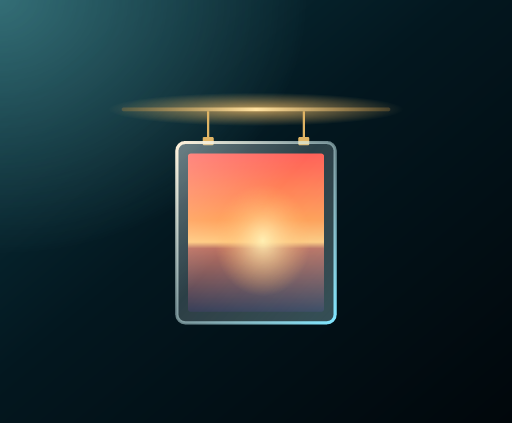
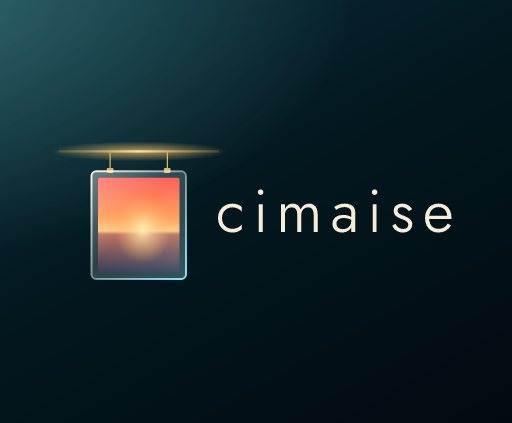
Icône de l'app : tuile verre-2 avec le mot « cimaise » en 512×423 (vue sur la Frame), variantes et essais consignés

Changed region(s): [[0.125, 0.2151, 0.9062, 0.7683], [0.7188, 0.4303, 0.75, 0.461]]

diff --git a/.board/bilan.md b/.board/bilan.md
@@ -4,15 +4,17 @@ Issue : partiel
 
 **Fait**
 - Format vérifié dans la doc Samsung : 117×117 = icône « de test » (Design Q&A, Q3) ; icône des apps publiées =
-  512×423, PNG 24 bits RVB (App Icons and Screenshots). Rien sur l'`<icon>` de `config.xml`.
-- `apps/tv/icon.png` refaite en 512×423 RVB (source `packages/launcher/brand/icon.svg`) : 37 092 o (+31 444 o), consigné dans
-  `docs/decisions.md` ; `config.xml` passé en version 0.0.2 ; `npm run check` vert.
-- Frame (TV2 non touchée) : installation par-dessus, redémarrage complet, installation en 0.0.2, puis — avec l'accord explicite
-  de Stéphane — désinstallation depuis la TV et installation propre. Tout est consigné dans `docs/tv-status.md`.
-- Comparaison avant/après et les deux icônes publiées sur la carte.
+  512×423, PNG 24 bits RVB (App Icons and Screenshots).
+- `apps/tv/icon.png` = tuile verre-2 **avec le mot « cimaise »**, recadrée en 512×423 RVB (source
+  `packages/launcher/brand/icon-tuile.svg`, à partir de `tile.svg`) : **29 175 o** (+23 527 o vs 117×117) ; `.wgt` signé
+  215 189 o. Variantes essayées et gardées en source : `icon.svg` (symbole seul, 512×423), `icon-carre.svg` (1:1 transparente).
+- Sur la Frame (TV2 non touchée) : installations par-dessus, redémarrage, version 0.0.2, puis désinstallation **avec l'accord
+  explicite de Stéphane** et installation propre ; puis variantes par-dessus. Tout est consigné dans `docs/tv-status.md` et
+  `docs/decisions.md`.
+- **Vu par Stéphane** : la tuile 512×423 avec le mot s'affiche sans déformation et « le texte rend bien » (la 16:9 était écrasée).
 
 **Pas fait / pourquoi**
-- Critère 2 non rempli : Stéphane voit toujours une tuile verticale (il pense voir l'icône carrée ; photo demandée pour
-  trancher). Hypothèse : tuile de format fixe pour les apps hors Store sur le Smart Hub 2019 ; non confirmée.
-- Variante 1:1 transparente prête (hors dépôt) mais pas encore essayée.
-- Désinstallation : jeton Plex et réglages perdus (accepté par Stéphane) ; reconnexion Plex par PIN à refaire.
+- La tuile cimaise reste **moins allongée** que celles de Netflix, Plex, etc. Le Smart Hub met l'icône d'une app hors Store
+  dans une tuile de format fixe ≈ 512×423 ; les tuiles plus larges des apps du Store viennent sans doute des visuels du Seller
+  Office. Hors d'atteinte avec `config.xml`, à ma connaissance. Stéphane accepte le résultat « pour cette fois ».
+- La désinstallation a effacé le jeton Plex et les réglages : reconnexion Plex par code PIN à refaire.

diff --git a/docs/decisions.md b/docs/decisions.md
@@ -1029,6 +1029,25 @@ documente l'affichage de l'`<icon>` d'une app hors Store dans la barre ; seules 
 et réinitialiser le Smart Hub (écartée : efface les connexions de toutes les apps). **On garde l'icône 512×423** (nette,
 conforme au format Samsung, coût +30,7 Ko) ; prochain essai proposé : variante 1:1 transparente.
 
+**Mise à jour, même soir : résolu avec la tuile « cimaise » en 512×423.** Stéphane attendait la tuile avec le mot (`tile.svg`),
+pas le symbole seul : avec le symbole seul (fond plein ou transparent), il ne distinguait pas l'ancienne icône de la nouvelle.
+Il a ensuite confirmé que la tuile était déjà plus large avec la 512×423. Essais suivants, tous installés **par-dessus** (pas de
+nouvelle désinstallation), icône rafraîchie à chaque fois :
+- variante **1:1 transparente** (`brand/icon-carre.svg`, 512×512 RVBA, 26 091 o) : installée, sans retour de Stéphane, abandonnée ;
+- **tuile 16:9 avec le mot** (640×360, 31 023 o) : affichée mais **écrasée** horizontalement. Le Smart Hub étire donc l'icône
+  dans une tuile de format fixe, plus étroite que du 16:9 ;
+- **tuile avec le mot recadrée en 512×423** (`brand/icon-tuile.svg`, recadrage de `tile.svg`) : non déformée, le texte rend
+  bien, mais la tuile reste **moins allongée** que celles de Netflix ou Plex. Acceptée « pour cette fois » (Stéphane, 08/11).
+  **Retenue.**
+
+**Conclusion.** Pour une app hors Store sur la Frame 2019, le Smart Hub affiche l'`<icon>` de `config.xml` dans une tuile de
+format fixe ≈ 512×423, en l'étirant au besoin : il faut fournir l'icône à ce format. Les apps du Store ont des tuiles plus
+allongées, tirées des visuels du Seller Office : **hors d'atteinte** avec l'`<icon>` de `config.xml` (aucun réglage trouvé). Le premier refus de rafraîchir (cache) a
+cessé après la désinstallation ; depuis, une installation par-dessus suffit.
+
+**Coût retenu.** `apps/tv/icon.png` (tuile 512×423, RVB) : **29 175 octets**, soit +23 527 o par rapport au 117×117. `.wgt`
+signé : 215 189 o (budget 1,5 Mo). Aucun effet sur le JS ni sur le démarrage.
+
 ### Accueil : plus de nom d'app avant le logo au démarrage (2026-11-08)
 
 Remarque de Stéphane (08/11) : au lancement, les tuiles montrent leur nom une fraction de seconde avant le logo. Cause : le

diff --git a/docs/tv-status.md b/docs/tv-status.md
@@ -291,9 +291,17 @@ Le lancement des apps et les touches marchaient sur TV2 (certificat public Tizen
      installation propre. SDK : « install completed ». **Vu : tuile toujours verticale.** Stéphane pense voir encore l'icône
      carrée ; non tranché (les deux icônes se ressemblent : comparaison publiée sur la carte, photo demandée).
 - **Non vérifiable par le SDK** : `sdb shell` (lecture de l'icône installée) répond `closed` sur la Frame.
-- **Hypothèse** : le Smart Hub de 2019 donne une tuile de format fixe aux apps hors Store, quelle que soit l'icône de
+- **Hypothèse (confirmée en partie, voir plus bas)** : le Smart Hub de 2019 donne une tuile de format fixe aux apps hors Store, quelle que soit l'icône de
   `config.xml` ; les tuiles paysage viennent des visuels du Seller Office. Non confirmé par une source Samsung.
-- **Non testé** : variante 1:1 transparente ; réinitialisation du Smart Hub (écartée : efface les connexions de toutes les apps).
+- **Suite, même soir (installations par-dessus, pas de nouvelle désinstallation ; SDK « install completed » à chaque fois)** :
+  5. Variante 1:1 transparente : pas de retour net. Stéphane précise alors qu'il attendait la **tuile avec le mot « cimaise »**,
+     et que la tuile était en fait déjà plus large avec la 512×423 (symbole seul).
+  6. Tuile avec le mot, 16:9 (640×360) : **vu : affichée, mais écrasée/déformée**.
+  7. Tuile avec le mot, 512×423 : **vu : « comme les autres »**, puis précisé : le texte rend bien, mais la tuile reste
+     **moins allongée** que celles de Netflix, Plex, etc. Acceptée « pour cette fois » (Stéphane, 08/11). Retenue.
+- **Constat** : le Smart Hub de la Frame étire l'icône d'une app hors Store dans une tuile de format fixe ≈ 512×423, plus
+  étroite que les tuiles des apps du Store (sans doute alimentées par les visuels 1920×1080 du Seller Office) ; une installation par-dessus
+  rafraîchit l'icône depuis la désinstallation (avant : non). Réinitialisation du Smart Hub : jamais faite (écartée).
 
 ### Questions pour Stéphane
 
